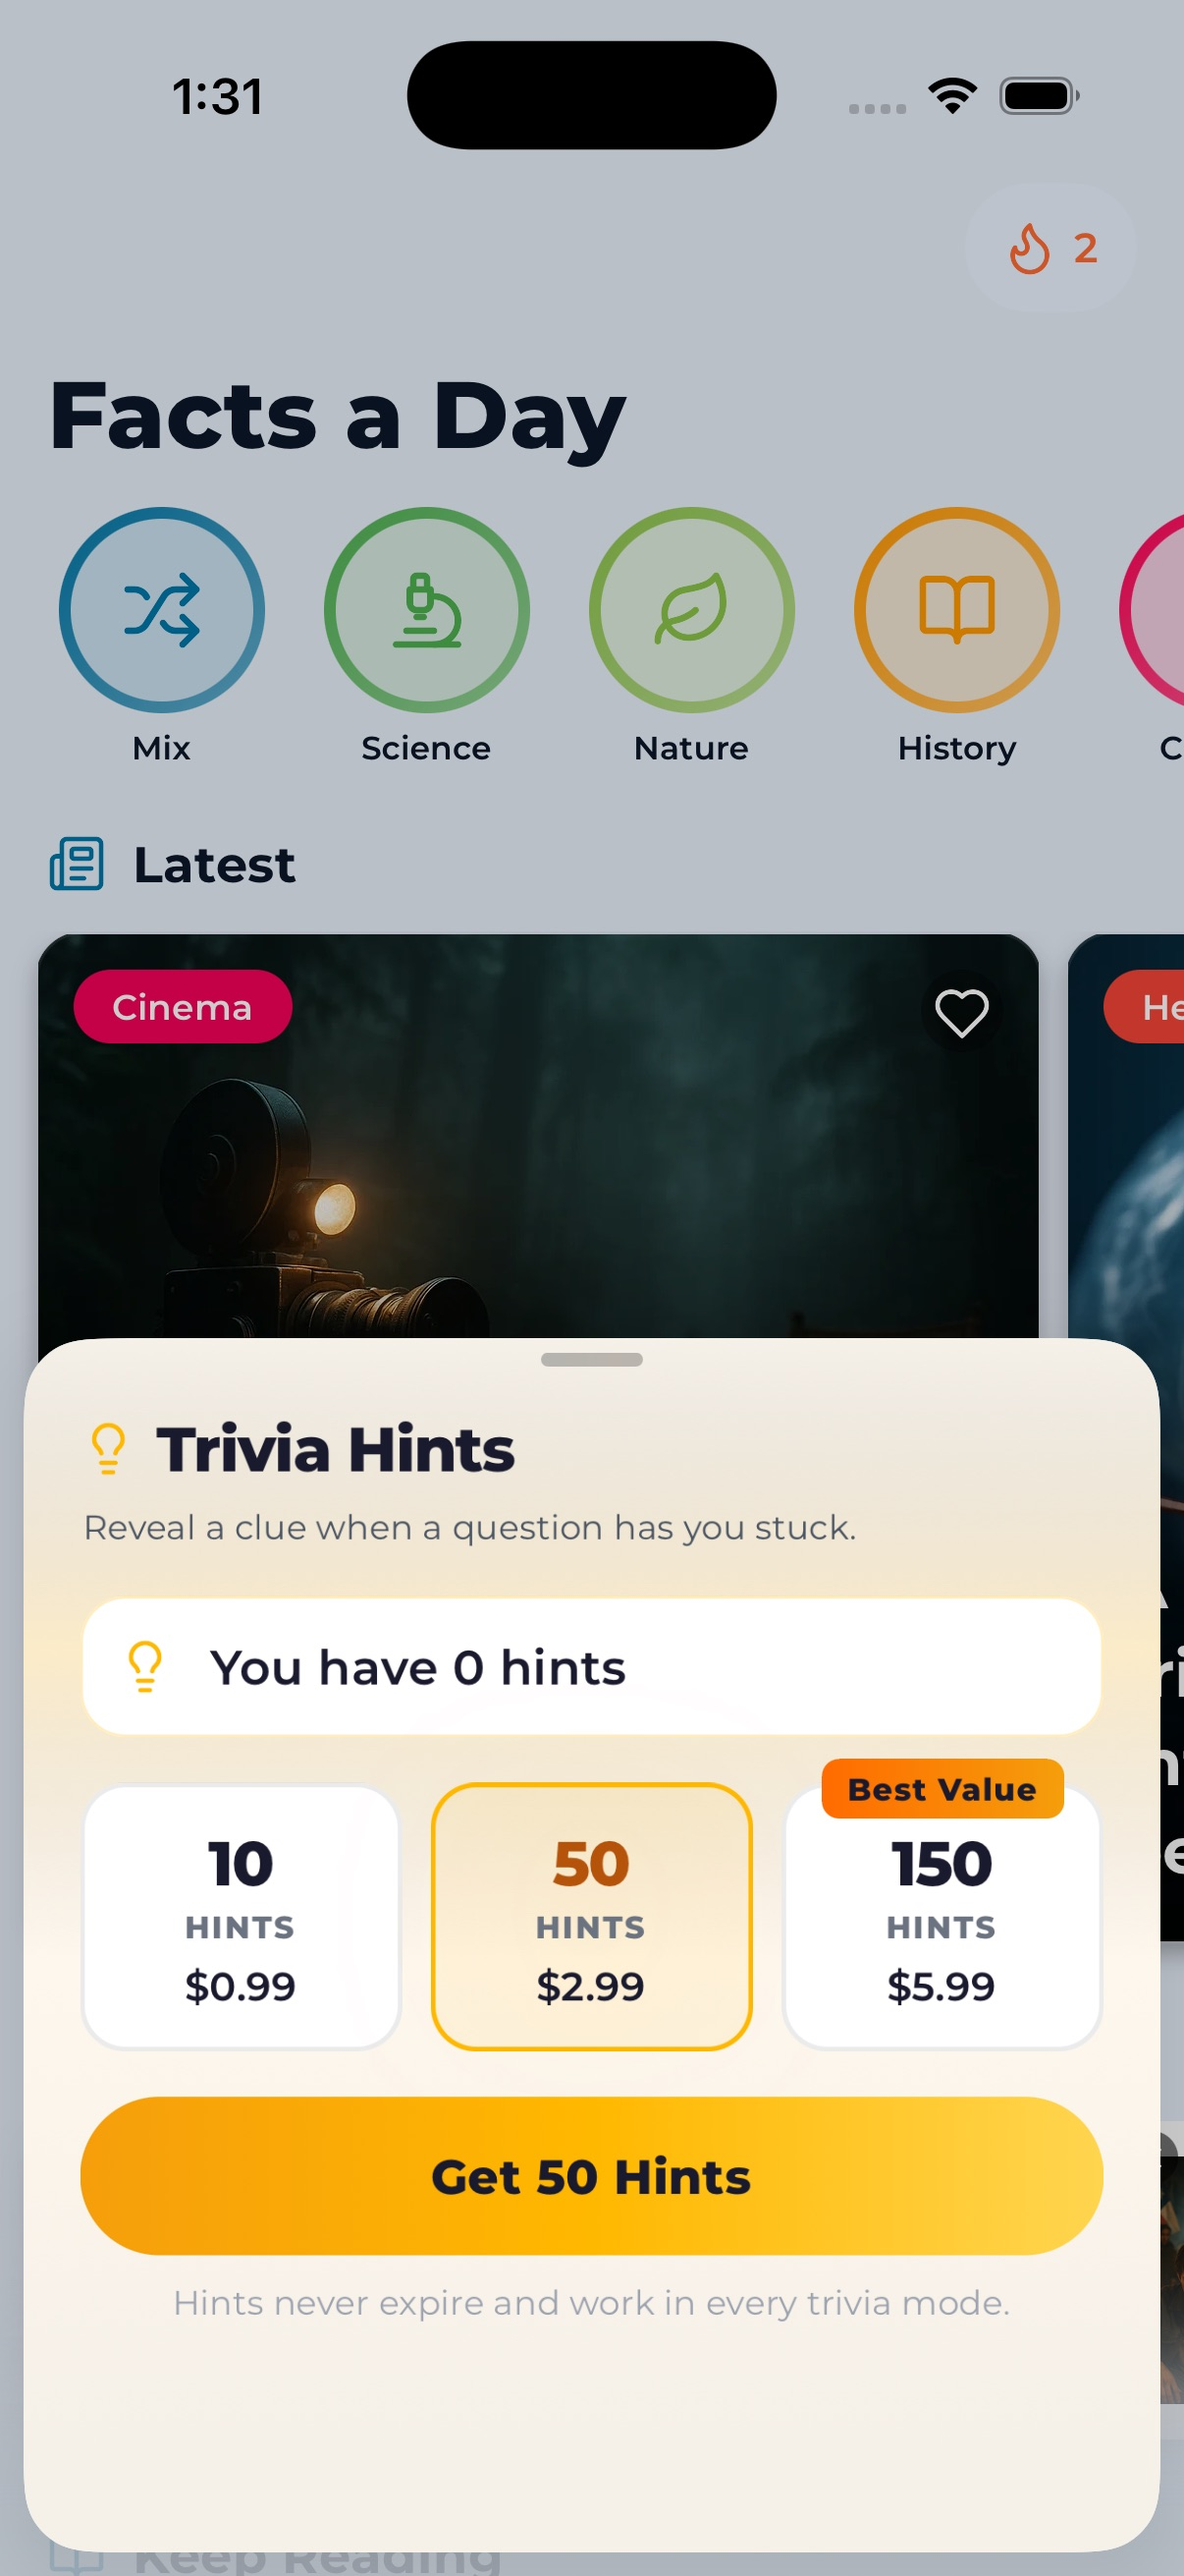
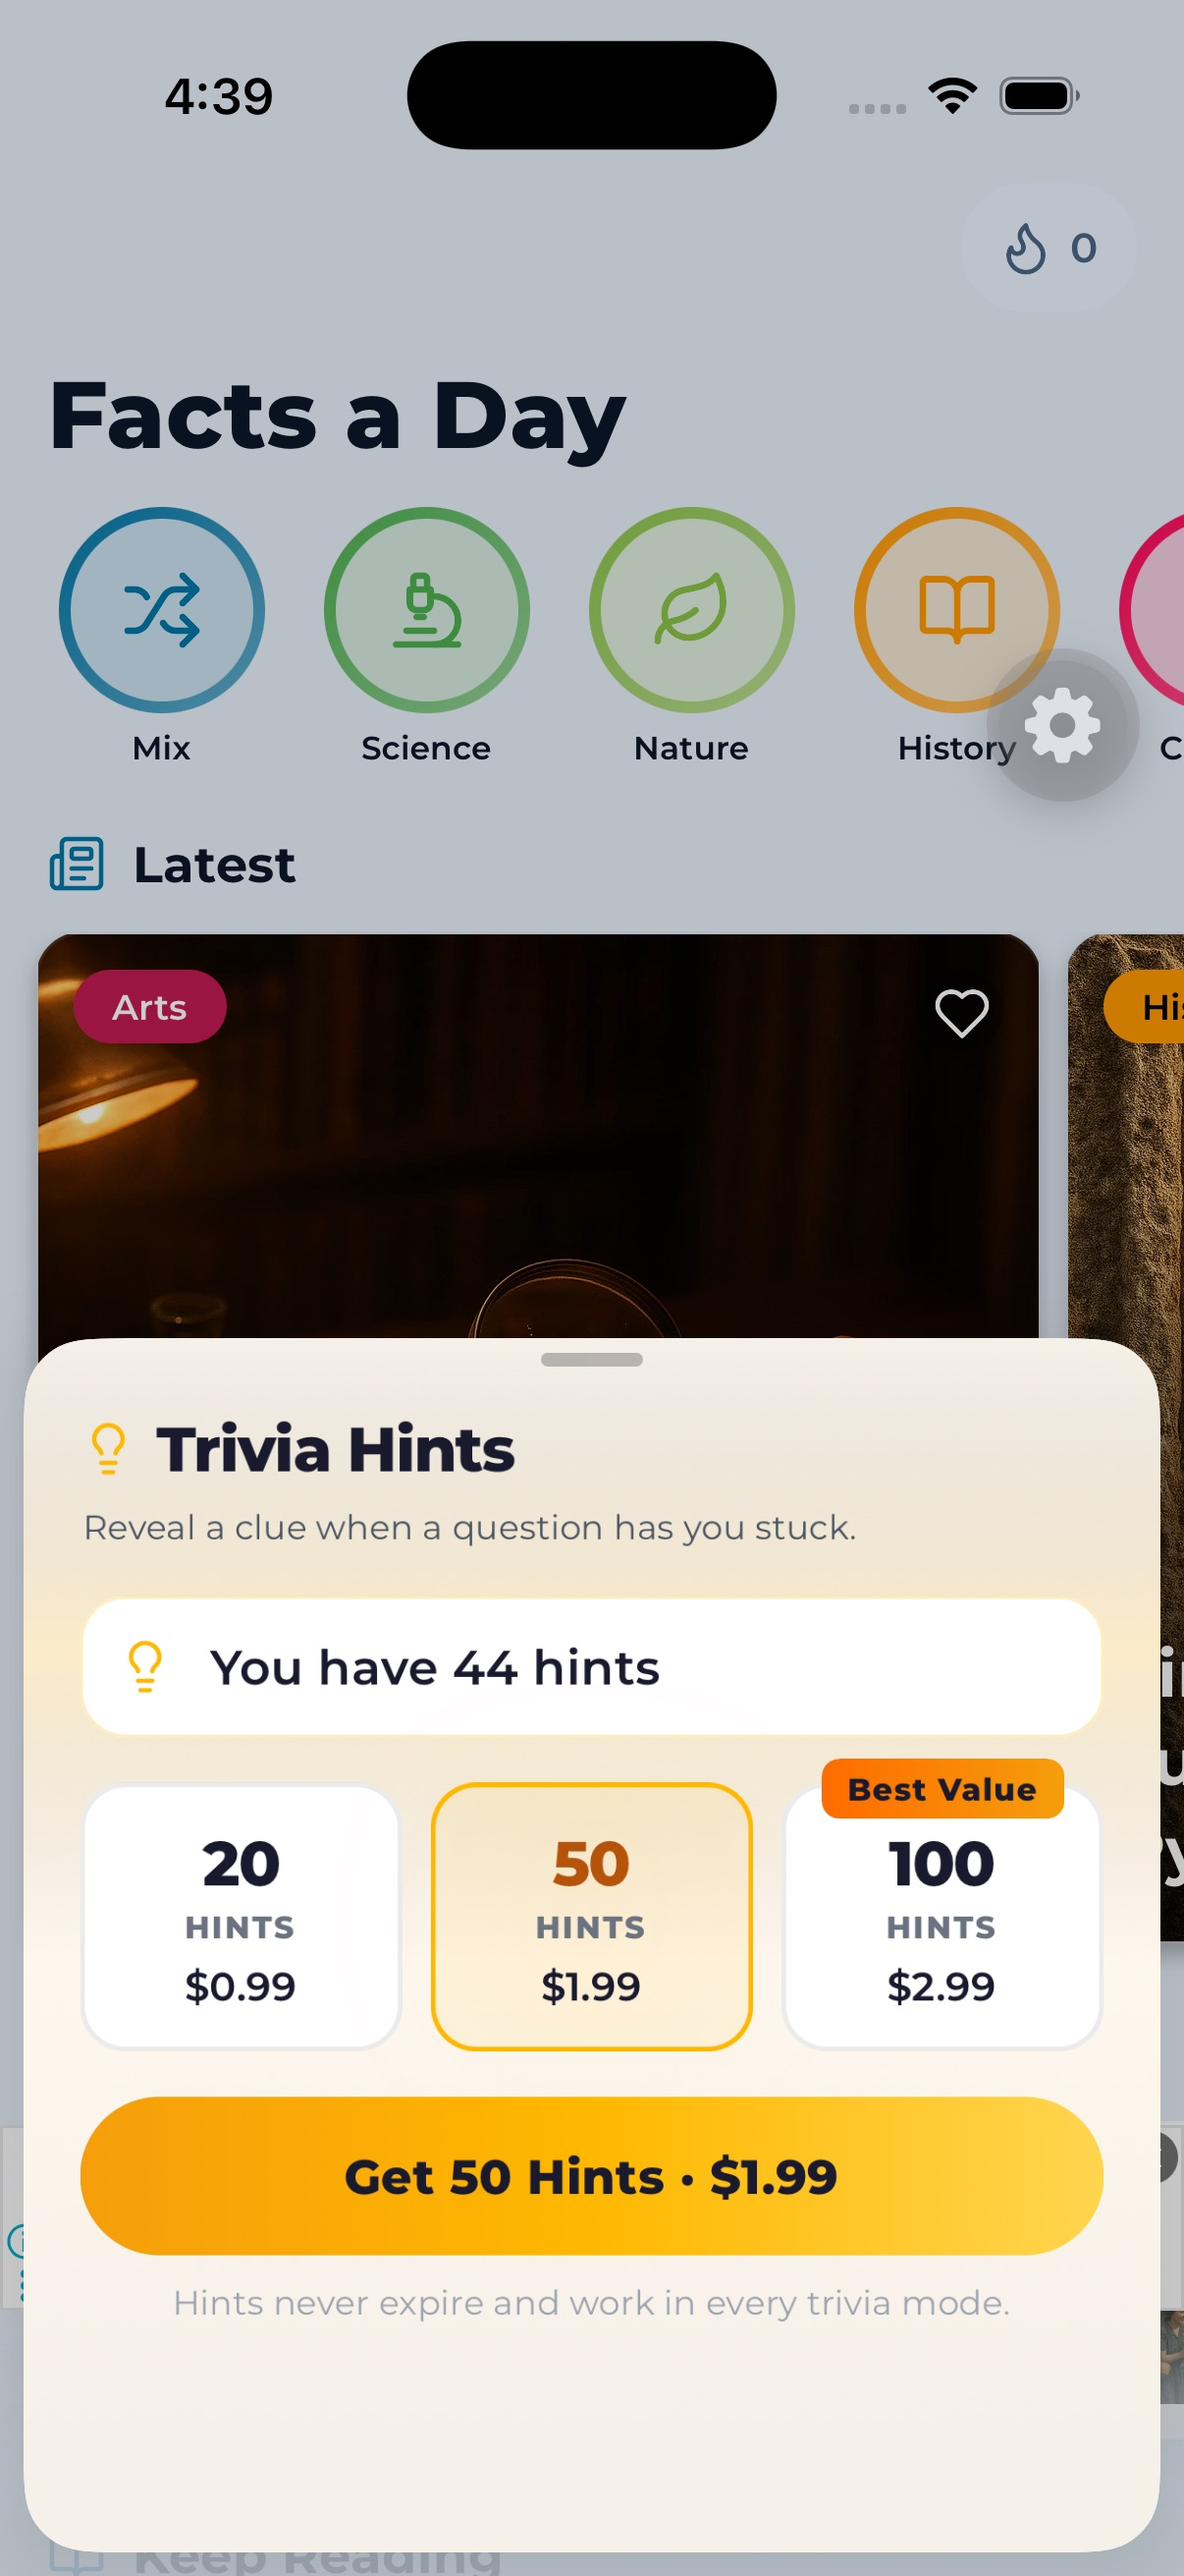
fix(app): app-store readiness pass on the hint store sheet
- Inline purchase-failure message (store error, not cancel) and a
  "Connecting to the store…" line while the CTA waits on the live
  product — a silent failure or a dead disabled button reads as broken
  in sandbox review
- CTA carries the exact charge ("Get 50 Hints · $1.99")
- Fix spurious "Hints added!" on sheet open: the initial async wallet
  load (0 -> stored balance) looked like a purchase credit; success is
  now armed only after a purchase attempt from this sheet
- New hintStorePurchaseFailed/hintStoreConnecting strings in 8 locales
- Docs: exact copy-paste ASC localizations for all 3 products x 8
  locales (within 30/45-char limits), Play description translations,
  refreshed review screenshot with final packs/prices

Deliberately NOT added: Terms/Privacy links and Restore Purchases —
Apple requires those on auto-renewable subscription surfaces only;
consumables are exempt (paywall/remove-ads keep theirs).

diff --git a/app/hint-store.tsx b/app/hint-store.tsx
@@ -13,7 +13,7 @@ import { FONT_FAMILIES } from '../src/components/Typography';
 import { useHintPurchase } from '../src/hooks/useHintPurchase';
 import { useTranslation } from '../src/i18n';
 import { trackHintStoreViewed } from '../src/services/analytics';
-import { PAYWALL_GOLD, paywallThemeColors, useTheme } from '../src/theme';
+import { hexColors, PAYWALL_GOLD, paywallThemeColors, useTheme } from '../src/theme';
 import { isMacOS } from '../src/utils/platform';
 import { useResponsive } from '../src/utils/useResponsive';
 
@@ -46,6 +46,7 @@ export default function HintStoreScreen() {
     purchasingId,
     purchasePack,
     isPackAvailable,
+    purchaseFailed,
   } = useHintPurchase(source);
 
   // Default selection: the middle pack.
@@ -54,11 +55,17 @@ export default function HintStoreScreen() {
   );
 
   // Success feedback: the global purchase listener credits the wallet, so a
-  // balance increase while the sheet is open means the purchase landed.
+  // balance increase means the purchase landed. Armed only after a purchase
+  // attempt from THIS sheet — the initial async wallet load also raises the
+  // balance (0 → stored value) and must not read as "Hints added!".
+  const attemptedRef = useRef(false);
   const prevBalanceRef = useRef(balance);
   const [justCredited, setJustCredited] = useState(false);
   useEffect(() => {
-    if (balance > prevBalanceRef.current) {
+    if (purchasingId !== null) attemptedRef.current = true;
+  }, [purchasingId]);
+  useEffect(() => {
+    if (attemptedRef.current && balance > prevBalanceRef.current) {
       setJustCredited(true);
       Haptics.notificationAsync(Haptics.NotificationFeedbackType.Success).catch(() => {});
     }
@@ -74,6 +81,14 @@ export default function HintStoreScreen() {
   // Cached prices can render the tiles before the store answers, but a
   // purchase needs the LIVE product — keep the CTA down until it's in.
   const selectedAvailable = isPackAvailable(selectedId);
+  const selectedPrice = getDisplayPrice(selectedId);
+  const errorColor = isDark ? hexColors.dark.error : hexColors.light.error;
+  // CTA carries the exact charge so there's no ambiguity about which tile
+  // is selected before the native payment sheet appears.
+  const ctaLabel =
+    selectedPrice !== '---'
+      ? `${t('hintStoreCta', { count: hintsFor(selectedId) })} · ${selectedPrice}`
+      : t('hintStoreCta', { count: hintsFor(selectedId) });
 
   /* eslint-disable react-native/no-unused-styles -- styles used via styles.* */
   const styles = useMemo(
@@ -285,7 +300,7 @@ export default function HintStoreScreen() {
           onPress={() => purchasePack(selectedId)}
           disabled={isPurchasing || !selectedAvailable}
           role="button"
-          aria-label={t('hintStoreCta', { count: hintsFor(selectedId) })}
+          aria-label={ctaLabel}
           style={({ pressed }) => [
             styles.ctaButton,
             (isPurchasing || !selectedAvailable) && styles.ctaButtonDisabled,
@@ -302,11 +317,23 @@ export default function HintStoreScreen() {
               <ActivityIndicator size="small" color={CREST_INK} />
             ) : (
               <Text.Body fontFamily={FONT_FAMILIES.extrabold} color={CREST_INK}>
-                {t('hintStoreCta', { count: hintsFor(selectedId) })}
+                {ctaLabel}
               </Text.Body>
             )}
           </LinearGradient>
         </Pressable>
+
+        {/* One status line under the CTA: a store error from the last attempt,
+            or why the button is disabled (live product not fetched yet). */}
+        {purchaseFailed ? (
+          <Text.Caption color={errorColor} textAlign="center" accessibilityLiveRegion="polite">
+            {t('hintStorePurchaseFailed')}
+          </Text.Caption>
+        ) : !selectedAvailable && !isPurchasing ? (
+          <Text.Caption color={tc.cancelText} textAlign="center">
+            {t('hintStoreConnecting')}
+          </Text.Caption>
+        ) : null}
 
         <YStack alignItems="center">
           <Text.Caption color={tc.cancelText} textAlign="center">

diff --git a/src/i18n/translations.ts b/src/i18n/translations.ts
@@ -532,6 +532,8 @@ export const translations = {
     sponsored: 'Gesponsert',
 
     // Premium
+    hintStorePurchaseFailed: 'Kauf fehlgeschlagen. Bitte erneut versuchen.',
+    hintStoreConnecting: 'Verbindung zum Store…',
     settingsPremium: 'Premium',
     settingsUpgradeToPremium: 'Auf Premium upgraden',
     settingsRemoveAds: 'Werbung entfernen',
@@ -1222,6 +1224,8 @@ export const translations = {
     paywallSubtitle: 'Unlock the full experience',
     paywallFeatureNoAds: 'Remove Ads',
     paywallFeatureNoAdsDesc: 'No banners, no interruptions',
+    hintStorePurchaseFailed: 'Purchase failed. Please try again.',
+    hintStoreConnecting: 'Connecting to the store…',
     paywallFeatureHints: 'Daily Trivia Hints',
     paywallFeatureHintsDesc: 'Get 3 free hints every day',
     paywallFeatureOffline: 'Offline Library',
@@ -1912,6 +1916,8 @@ export const translations = {
     paywallBestValue: 'Mejor oferta',
     paywallSavePercent: 'Ahorra ~%{percent}%',
     paywallFlexible: 'Flexible',
+    hintStorePurchaseFailed: 'No se pudo completar la compra. Inténtalo de nuevo.',
+    hintStoreConnecting: 'Conectando con la tienda…',
     paywallAnnual: 'Anual',
     paywallPerYear: '/año',
     paywallFreeTrial: '3 días de prueba gratis',
@@ -2605,6 +2611,8 @@ export const translations = {
     paywallTerms: 'Conditions',
     paywallPrivacy: 'Confidentialité',
     paywallLegalAgree: 'En continuant, vous acceptez nos',
+    hintStorePurchaseFailed: "L'achat a échoué. Veuillez réessayer.",
+    hintStoreConnecting: 'Connexion à la boutique…',
     paywallLegalAnd: 'et',
     paywallPremiumTag: 'PREMIUM',
     paywallHubHeadline: 'Tu es sur ta lancée.',
@@ -3292,6 +3300,8 @@ export const translations = {
     paywallPerWeekValue: '週あたり %{price}',
 
     // Downgrade Enforcement
+    hintStorePurchaseFailed: '購入できませんでした。もう一度お試しください。',
+    hintStoreConnecting: 'ストアに接続中…',
 
     // Badges / Achievements
     achievements: '実績',
@@ -3976,6 +3986,8 @@ export const translations = {
     badgeProgress: '%{current}/%{target}',
     badgeStarProgress: '별 %{star}까지 %{count} 남음',
     badgeNextHint: '다음 등급까지 %{count} 더 필요',
+    hintStorePurchaseFailed: '구매에 실패했습니다. 다시 시도해 주세요.',
+    hintStoreConnecting: '스토어에 연결하는 중…',
     badgeSectionReading: '독서',
     badgeSectionQuiz: '퀴즈',
     settingsGeneral: '일반',
@@ -4663,6 +4675,8 @@ export const translations = {
     badge_bookworm_goal: '%{count} dakika oku',
     badge_daily_reader: 'Günlük Okuyucu',
     badge_daily_reader_desc: 'Ardışık gün okuma serisi',
+    hintStorePurchaseFailed: 'Satın alma başarısız oldu. Lütfen tekrar deneyin.',
+    hintStoreConnecting: 'Mağazaya bağlanılıyor…',
     badge_daily_reader_goal: '%{count} günlük okuma serisi',
     badge_quiz_starter: 'Quiz Başlatıcı',
     badge_quiz_starter_desc: 'Tamamlanan trivia quizleri',
@@ -5343,6 +5357,8 @@ export const translations = {
     badge_master_scholar_desc: '已掌握的问题',
     badge_master_scholar_goal: '掌握%{count}个问题',
     badge_streak_champion: '连续记录冠军',
+    hintStorePurchaseFailed: '购买失败，请重试。',
+    hintStoreConnecting: '正在连接商店…',
     badge_streak_champion_desc: '最佳每日知识测验连续记录',
     badge_streak_champion_goal: '%{count}天测验连续',
     badge_fact_collector: '知识收藏家',

diff --git a/src/hooks/useHintPurchase.ts b/src/hooks/useHintPurchase.ts
@@ -75,6 +75,8 @@ export interface HintPurchase {
    * fetched product). Always true in dev.
    */
   isPackAvailable: (productId: string) => boolean;
+  /** True when the last purchase attempt failed (store error, not a cancel). */
+  purchaseFailed: boolean;
 }
 
 /**
@@ -90,6 +92,7 @@ export function useHintPurchase(source: string): HintPurchase {
     __DEV__ ? DEV_MOCK_PACK_PRICES : []
   );
   const [purchasingId, setPurchasingId] = useState<string | null>(null);
+  const [purchaseFailed, setPurchaseFailed] = useState(false);
 
   // Cached prices for instant render before the store answers.
   useEffect(() => {
@@ -136,6 +139,7 @@ export function useHintPurchase(source: string): HintPurchase {
   const purchasePack = useCallback(
     async (productId: string) => {
       if (purchasingId || !isPackAvailable(productId)) return;
+      setPurchaseFailed(false);
 
       trackPaywallPurchaseInitiated({
         productId,
@@ -168,6 +172,7 @@ export function useHintPurchase(source: string): HintPurchase {
         // global purchaseErrorListener; just avoid noisy cancel logs here.
         if (error?.code !== ErrorCode.UserCancelled) {
           console.error('Hint pack purchase error:', error);
+          setPurchaseFailed(true);
         }
       } finally {
         setPurchasingId(null);
@@ -189,5 +194,6 @@ export function useHintPurchase(source: string): HintPurchase {
     purchasePack,
     productsAvailable,
     isPackAvailable,
+    purchaseFailed,
   };
 }

diff --git a/docs/HINT_PACKS_STORE_SETUP.md b/docs/HINT_PACKS_STORE_SETUP.md
@@ -28,18 +28,46 @@ Per product:
 - ☐ Reference Name + Product ID from the table above. Product ID is immutable after creation — copy-paste it.
 - ☐ Price: base country **United States**, tier from the table, and let Apple **automatically generate** all other regional prices.
 - ☐ Availability: all countries/regions.
-- ☐ Localizations — add all 8 (Display Name ≤ 30 chars, Description ≤ 45 chars; the strings below fit):
+- ☐ Localizations — add all 8 per product, exact strings below (Display Name ≤ 30 chars, Description ≤ 45 chars; every string fits). Markets without one of these localizations automatically fall back to en-US.
 
-| ASC locale | Display Name («N» = 20/50/100) | Description |
+**`factsaday_hints_small`**
+
+| ASC locale | Display Name | Description |
 |---|---|---|
-| en-US | `N Trivia Hints` | `N hints that never expire` |
-| de-DE | `N Quiz-Hinweise` | `N Hinweise, verfallen nie` |
-| es-ES | `N pistas de trivia` | `N pistas que nunca caducan` |
-| fr-FR | `N indices de quiz` | `N indices sans expiration` |
-| ja | `トリビアヒントN個` | `有効期限のないヒントN個` |
-| ko | `트리비아 힌트 N개` | `만료되지 않는 힌트 N개` |
-| tr | `N Trivia İpucu` | `Süresi dolmayan N ipucu` |
-| zh-Hans | `N 条问答提示` | `N 条永不过期的提示` |
+| en-US | `20 Trivia Hints` | `20 hints that never expire` |
+| de-DE | `20 Quiz-Hinweise` | `20 Hinweise, verfallen nie` |
+| es-ES | `20 pistas de trivia` | `20 pistas que nunca caducan` |
+| fr-FR | `20 indices de quiz` | `20 indices sans expiration` |
+| ja | `トリビアヒント20個` | `有効期限のないヒント20個` |
+| ko | `트리비아 힌트 20개` | `만료되지 않는 힌트 20개` |
+| tr | `20 Trivia İpucu` | `Süresi dolmayan 20 ipucu` |
+| zh-Hans | `20 条问答提示` | `20 条永不过期的提示` |
+
+**`factsaday_hints_medium`**
+
+| ASC locale | Display Name | Description |
+|---|---|---|
+| en-US | `50 Trivia Hints` | `50 hints that never expire` |
+| de-DE | `50 Quiz-Hinweise` | `50 Hinweise, verfallen nie` |
+| es-ES | `50 pistas de trivia` | `50 pistas que nunca caducan` |
+| fr-FR | `50 indices de quiz` | `50 indices sans expiration` |
+| ja | `トリビアヒント50個` | `有効期限のないヒント50個` |
+| ko | `트리비아 힌트 50개` | `만료되지 않는 힌트 50개` |
+| tr | `50 Trivia İpucu` | `Süresi dolmayan 50 ipucu` |
+| zh-Hans | `50 条问答提示` | `50 条永不过期的提示` |
+
+**`factsaday_hints_large`**
+
+| ASC locale | Display Name | Description |
+|---|---|---|
+| en-US | `100 Trivia Hints` | `100 hints that never expire` |
+| de-DE | `100 Quiz-Hinweise` | `100 Hinweise, verfallen nie` |
+| es-ES | `100 pistas de trivia` | `100 pistas que nunca caducan` |
+| fr-FR | `100 indices de quiz` | `100 indices sans expiration` |
+| ja | `トリビアヒント100個` | `有効期限のないヒント100個` |
+| ko | `트리비아 힌트 100개` | `만료되지 않는 힌트 100개` |
+| tr | `100 Trivia İpucu` | `Süresi dolmayan 100 ipucu` |
+| zh-Hans | `100 条问答提示` | `100 条永不过期的提示` |
 
 - ☐ Review screenshot: upload `docs/assets/hint-store-review.jpg` (same one for all three products is fine; it's for review only, never shown on the store).
 - ☐ Review notes (paste per product):
@@ -59,7 +87,18 @@ Per product:
 
   > Adds N hints to your balance. A hint reveals a clue for the current trivia question. Hints never expire and work in every trivia mode.
 
-- ☐ Translations: optional, but add the 8 locales using the ASC table's names + a translated one-liner if you want localized payment sheets on Android too.
+- ☐ Translations: add the 8 locales — Name = the ASC display names above, Description per locale («N» = 20/50/100, all ≤ 200 chars):
+
+| Play locale | Description |
+|---|---|
+| en-US | `Adds N hints to your balance. A hint reveals a clue for the current trivia question. Hints never expire and work in every trivia mode.` |
+| de-DE | `Fügt deinem Guthaben N Hinweise hinzu. Ein Hinweis zeigt einen Tipp zur aktuellen Quizfrage. Hinweise verfallen nie und gelten in jedem Quiz-Modus.` |
+| es-ES | `Añade N pistas a tu saldo. Una pista revela una ayuda para la pregunta actual. Las pistas nunca caducan y sirven en todos los modos de trivia.` |
+| fr-FR | `Ajoute N indices à votre solde. Un indice révèle une aide pour la question en cours. Les indices n'expirent jamais et fonctionnent dans tous les modes de quiz.` |
+| ja-JP | `ヒントをN個追加します。ヒントは現在のトリビア問題の手がかりを表示します。有効期限はなく、すべてのモードで使えます。` |
+| ko-KR | `힌트 N개를 잔액에 추가합니다. 힌트는 현재 문제의 단서를 보여줍니다. 힌트는 만료되지 않으며 모든 트리비아 모드에서 사용할 수 있습니다.` |
+| tr-TR | `Bakiyene N ipucu ekler. İpucu, mevcut trivia sorusu için bir açıklama gösterir. İpuçlarının süresi dolmaz ve tüm trivia modlarında geçerlidir.` |
+| zh-CN | `为你的余额添加 N 条提示。提示会显示当前问答题的线索。提示永不过期，适用于所有问答模式。` |
 - ☐ Price: set USD from the table → **use the auto-converted local prices** (Play rounds per market).
 - ☐ **Save → Activate.** No review pass; active within the hour.
 
